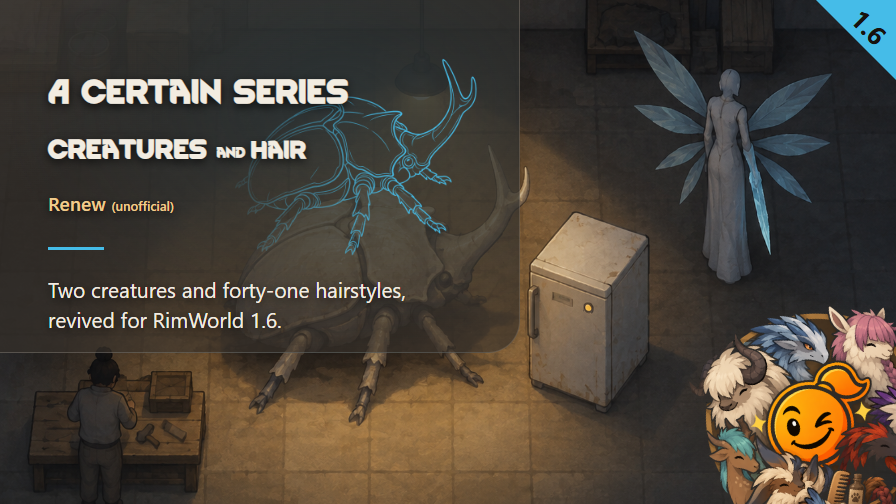
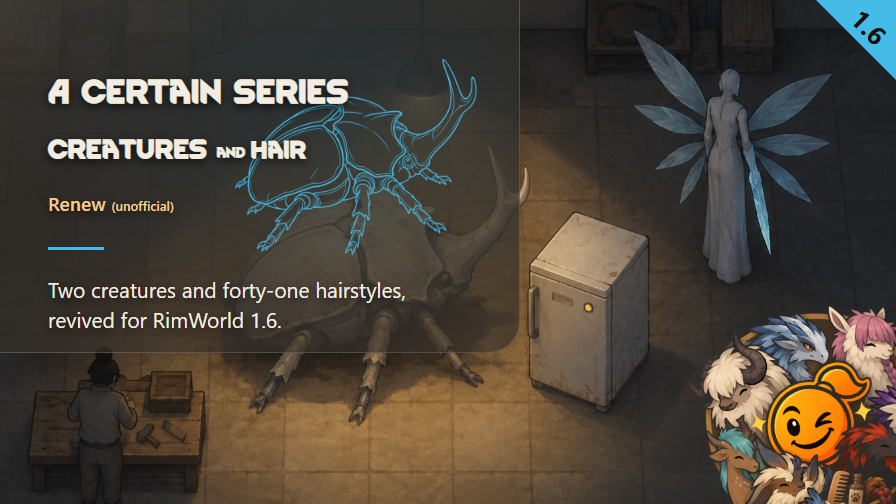
Preview.png: redrawn beetle line-art echo; 1.0.2 section and Steam change note (header image sent with update_preview)

diff --git a/CHANGELOG.md b/CHANGELOG.md
@@ -3,6 +3,14 @@
 All notable changes to this mod are recorded here. The format follows
 [Keep a Changelog](https://keepachangelog.com/en/1.1.0/).
 
+## [1.0.2] — 2026-09-30
+
+Preview image only. RimWorld 1.6.
+
+### Changed
+
+- `Mod/About/Preview.png`: the beetle line-art echo behind the title is redrawn; the header image of the Workshop page is sent with this version (`update_preview`), the `1.0.1` publish did not send it.
+
 ## [1.0.1] — 2026-09-30
 
 Hairstyle names in French, the About description and the Preview image. RimWorld 1.6.

diff --git a/PUBLICATION.md b/PUBLICATION.md
@@ -118,6 +118,13 @@ All posted (2026-09-28, `docs/runs/history.md`). State and method: `../WORKSHOP_
 
 The CI reads the block under `### <version>` and sends it as written (BBCode); its first line must carry the version.
 
+### 1.0.2
+
+```
+[b]1.0.2[/b]
+New header image for the page: the beetle line art behind the title is redrawn. No change to the mod itself.
+```
+
 ### 1.0.1
 
 ```
